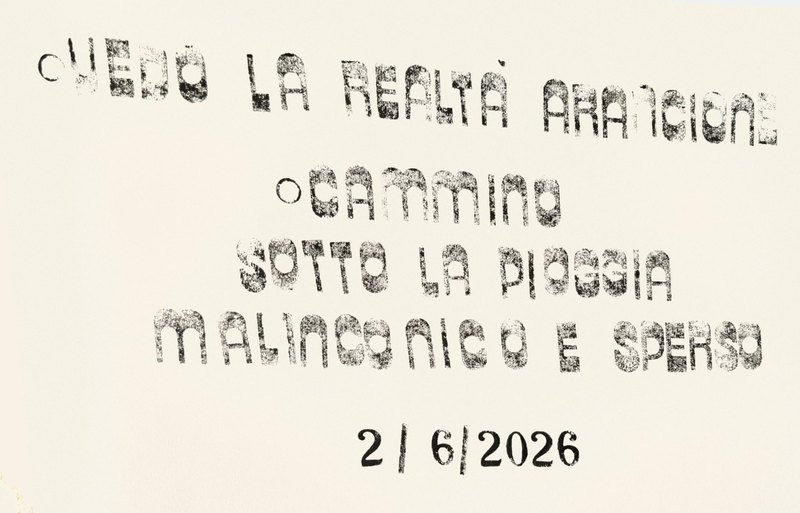
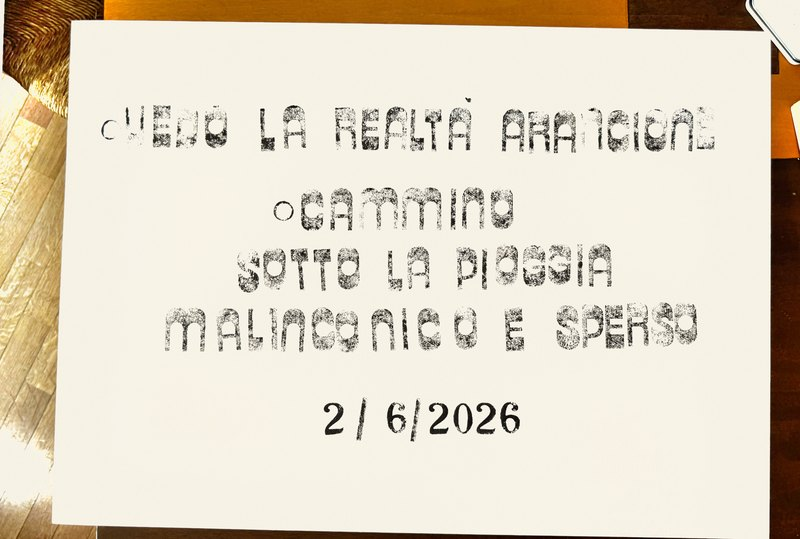
2/6/26: ri-processato da IMG_8613.HEIC (rotation rigida, no perspective warp)

diff --git a/index.html b/index.html
@@ -662,11 +662,11 @@ section#timbri{ padding-top: clamp(160px, 18vw, 240px); }
 <section class="page" id="timbri">
   <div class="gallery" id="gallery">
     <figure class="work">
-      <div class="work-frame" style="--ratio: 64.13%;">
+      <div class="work-frame" style="--ratio: 67.44%;">
         <img src="foto_definitive/Timbro_2026-06-02.jpg"
              srcset="foto_definitive/thumbs/Timbro_2026-06-02.jpg 800w, foto_definitive/Timbro_2026-06-02.jpg 1800w"
              sizes="(max-width: 720px) 92vw, 720px"
-             width="1670" height="1071"
+             width="1800" height="1214"
              alt="2/6/26" loading="lazy" decoding="async" />
       </div>
       <figcaption class="work-caption"><span class="work-date">2/6/26</span></figcaption>
